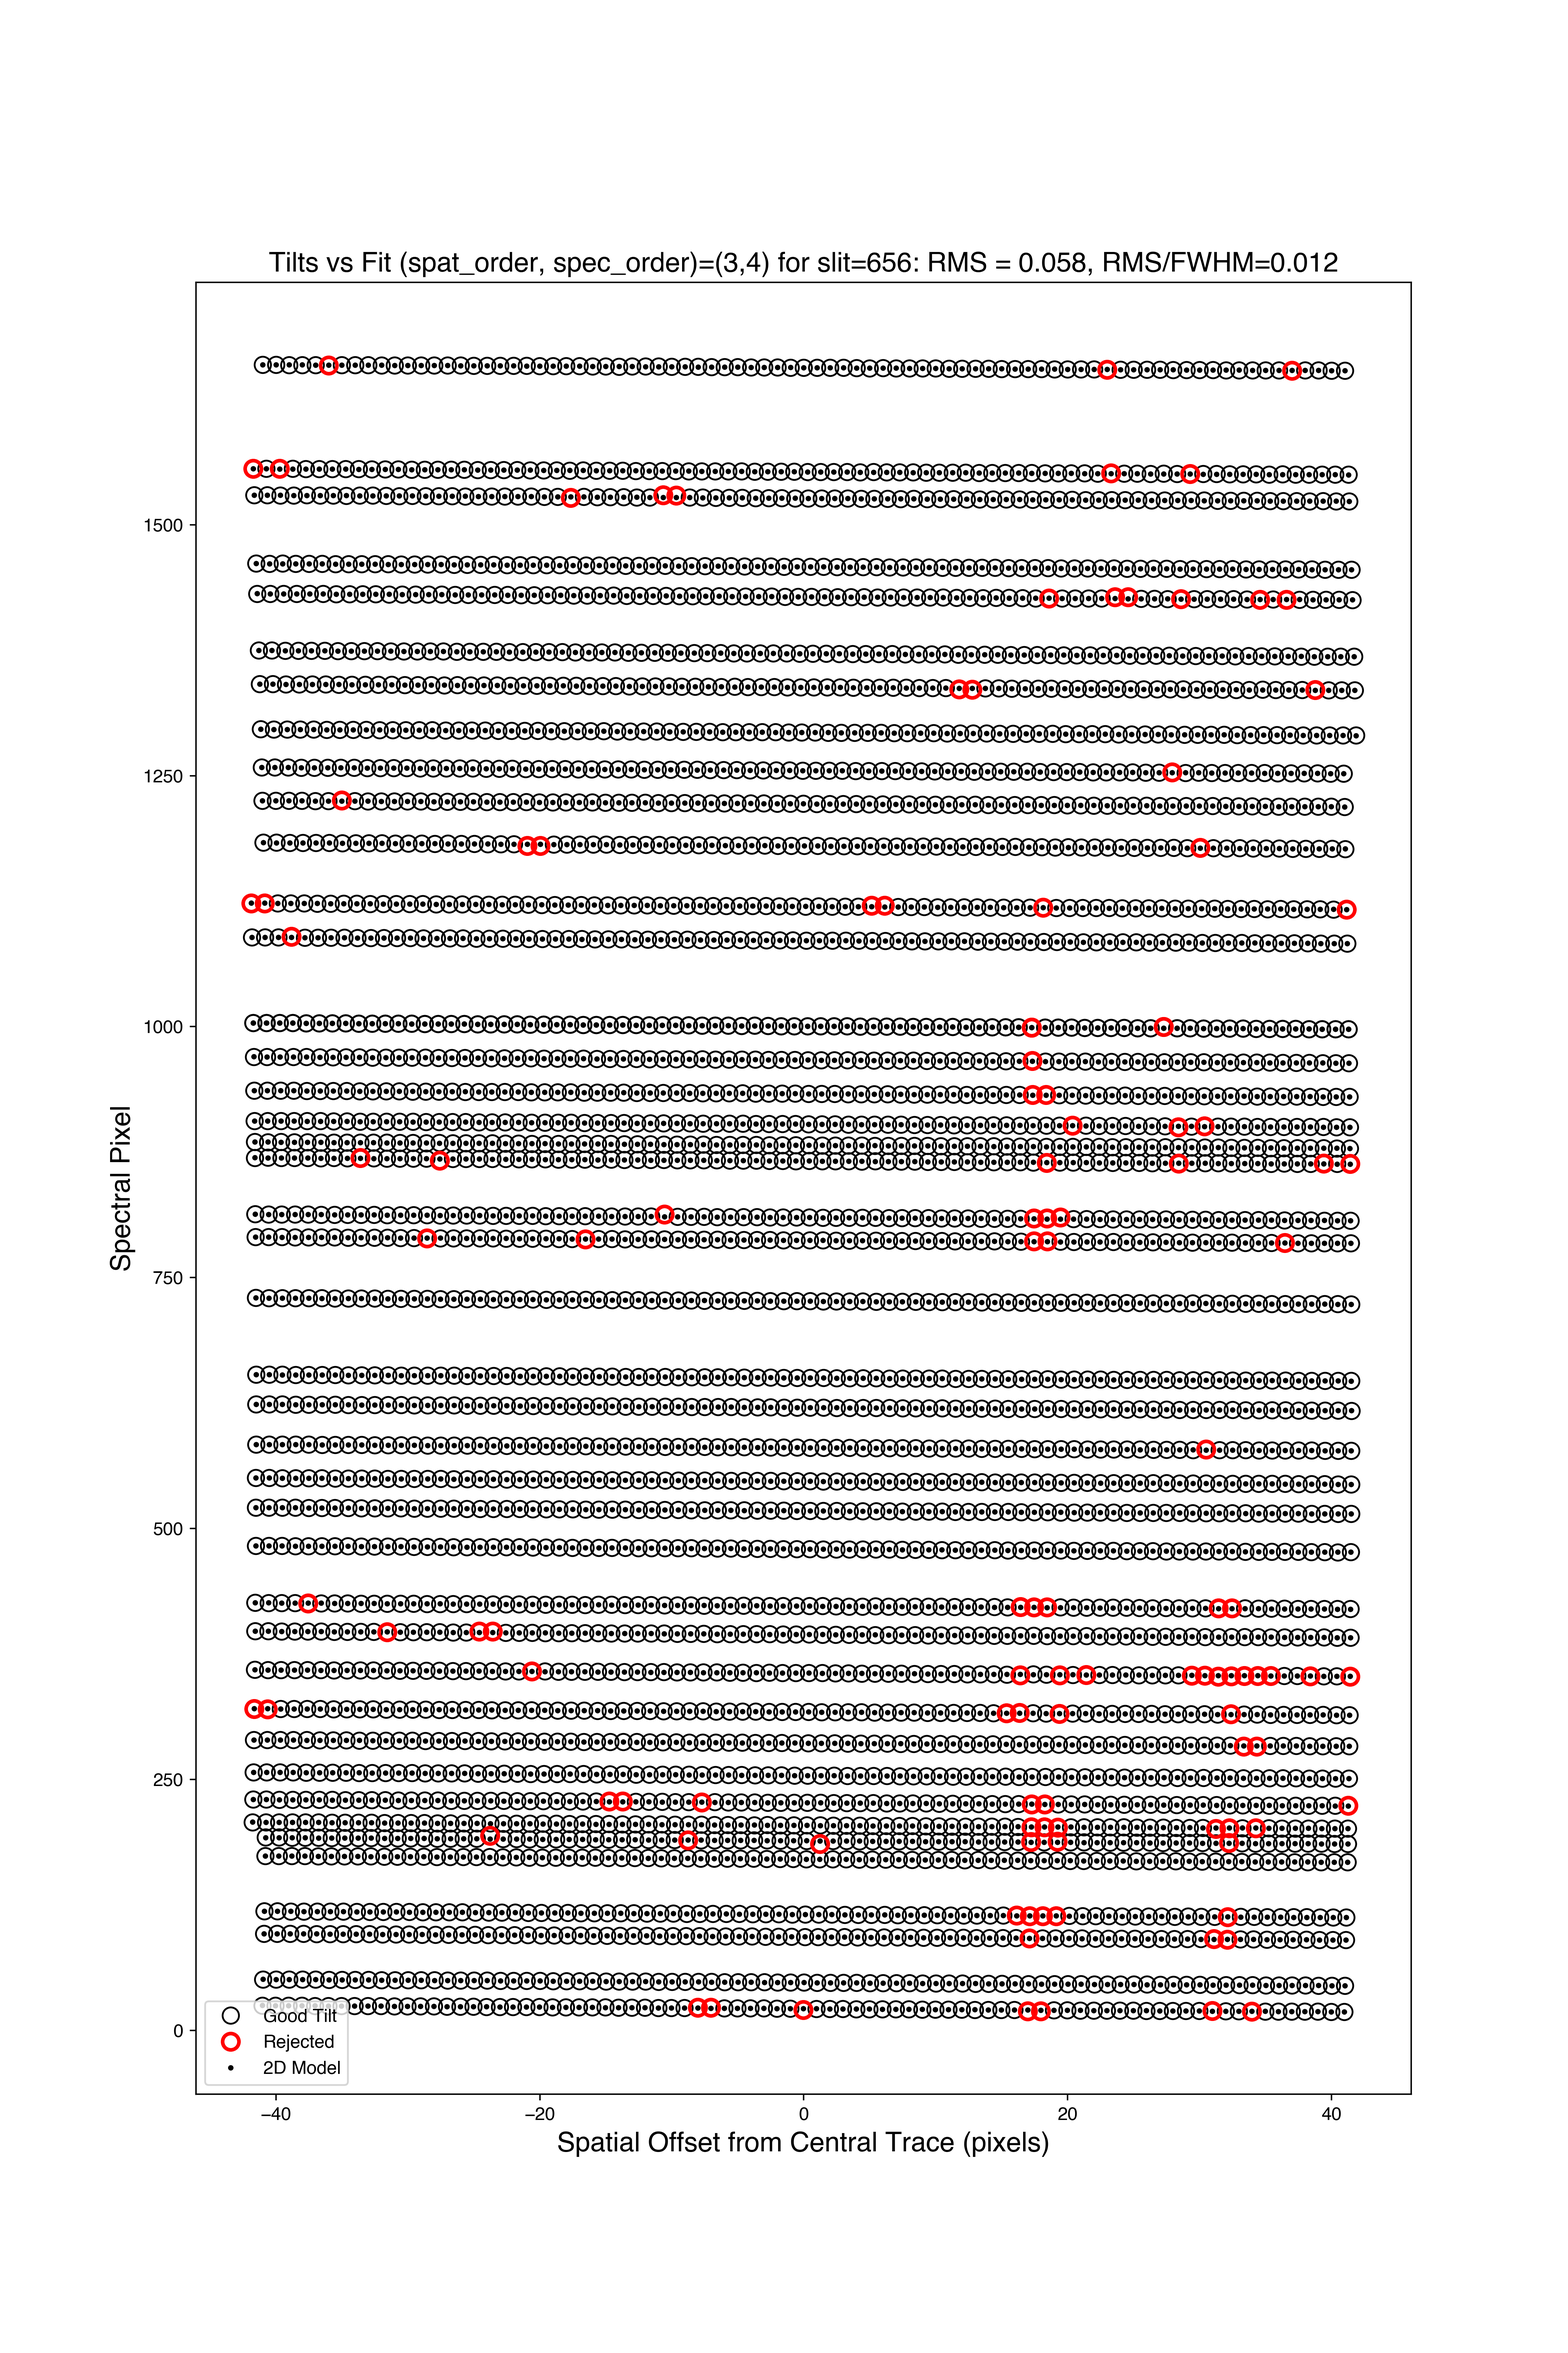
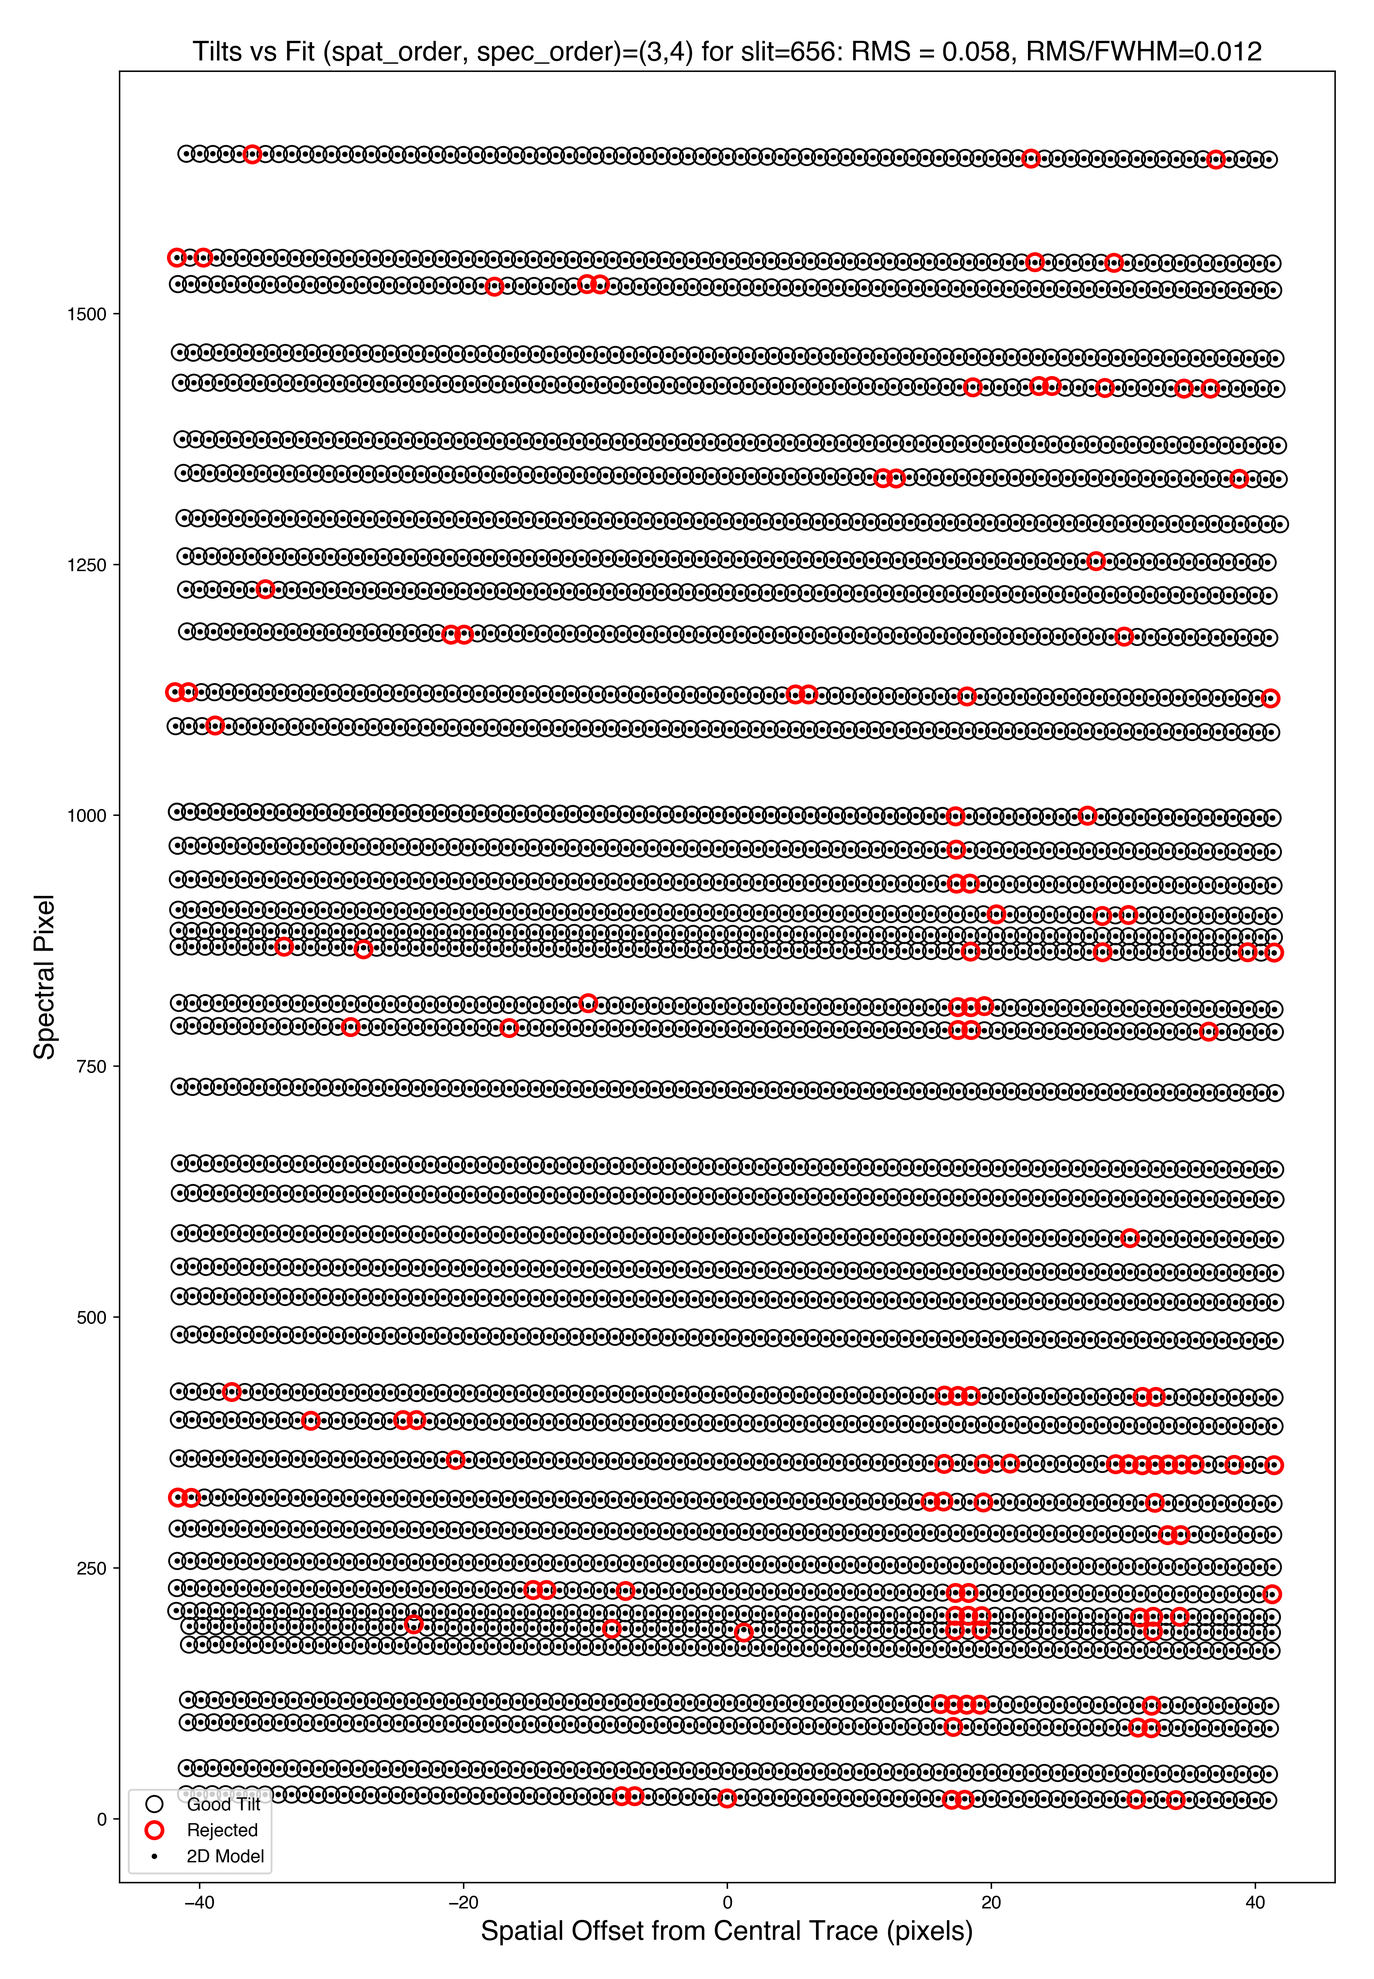
small adjustments

diff --git a/doc/mosfire_howto.rst b/doc/mosfire_howto.rst
@@ -60,7 +60,7 @@ Run ``pypeit_setup``
 The first script to run with PypeIt is :ref:`pypeit_setup`, which examines the raw files
 and generates a sorted list and (when instructed) one :doc:`pypeit_file` per instrument configuration.
 
-See complete instructions are provided in :ref:`setup_doc`.
+See complete instructions provided in :ref:`setup_doc`.
 
 For this example, we move to the folder where we want to perform the reduction and save the
 associated outputs and we run:
@@ -70,7 +70,7 @@ associated outputs and we run:
     cd folder_for_reducing   # this is usually *not* the raw data folder
     pypeit_setup -s keck_mosfire -r /PypeIt-development-suite/RAW_DATA/mask1_K_with_continuum -b
 
-This creates, in a folder called ``setup_files/``, a ``.sorted`` file that shows the raw file organized
+This creates, in a folder called ``setup_files/``, a ``.sorted`` file that shows the raw files organized
 by datasets. We inspect the ``.sorted`` file and identify the dataset that we want to reduced
 (in this case it is indicated with the letter ``A`` ) and re-run ``pypeit_setup`` as:
 
@@ -136,12 +136,13 @@ OH lines in science frames for the wavelength calibration, therefore we do not w
     the ``arc`` and ``tilt`` frame type. In addition, the changes explained in :ref:`mosfire_wavecalib` will have to
     be added to the :ref:`pypeit_file:Parameter Block`.
 
-Other possible edits to the :ref:`pypeit_file:Data Block` are related to the ``calib``, ``comb_id``, and ``bkg_id``
+Other possible edits to the :ref:`pypeit_file:Data Block` are related to the ``comb_id`` and ``bkg_id``
 columns, which instruct PypeIt on the desired frame combination and background subtraction.
-For Keck/MOSFIRE data, PypeIt tries to automatically set the ``calib``, ``comb_id``, ``bkg_id`` using the dither
-information (reported in the ``dithpat``, ``dithpos``, and ``dithoff`` columns) recorded in the header
-of the science frames (see :ref:`mosfire_config_report`); however, the user can edit these columns according to
-the preferred reduction (see :ref:`a-b_differencing` and :ref:`2d_combine` for more info).
+For Keck/MOSFIRE data, PypeIt tries to automatically set the ``comb_id`` and ``bkg_id`` using the dither
+information (reported here in the ``dithpat``, ``dithpos``, and ``dithoff`` columns) recorded in the header
+of the science frames (see :ref:`mosfire_combid_bkgid`); however,
+the user can edit these columns according to the preferred reduction (see :ref:`a-b_differencing` and
+:ref:`2d_combine` for more info).
 
 Finally, in this example, we also edit the :ref:`pypeit_file:Parameter Block` adding the following lines::
 
@@ -212,7 +213,7 @@ Once the ``pypeit_file`` is ready, the main call is simply:
 
 .. code-block:: bash
 
-    run_pypeit ``keck_mosfire_A/keck_mosfire_A.pypeit`` -o
+    run_pypeit keck_mosfire_A/keck_mosfire_A.pypeit -o
 
 The "-o" specifies to over-write any existing science output files.  As there are none, it is superfluous but we
 recommend (almost) always using it.
@@ -260,7 +261,7 @@ from the slitmask design, which within the Pypeit framework are called ``maskdef
 See :doc:`master_edges` for further details.
 
 We can also inspect the ``MasterSlits`` file, which contains the main information on the traced slit edges,
-organized into left-right slit pairs. This is a multi-extension fits file with two
+organized into left-right slit pairs. This is a multi-extension FITS file with two
 `astropy.io.fits.BinTableHDU`_ (for MOSFIRE). The second extension, called ``MASKDEF_DESIGNTAB``, includes
 all the relevant slitmask design information. In this example, ``MASKDEF_DESIGNTAB`` looks like this:
 
@@ -394,7 +395,7 @@ Object finding
 --------------
 
 We can also inspect the :doc:`qa` for the object finding process. Plots saved in *PNG* files with suffix
-*_obj_prof* show the object profile collapse along the spectral direction. Here is an example for
+*"_obj_prof"* show the object profile collapse along the spectral direction. Here is an example for
 an ``A-B`` frame and a ``B-A`` frame:
 
 .. image:: figures/mosfire_objfind_a-b.png
@@ -490,7 +491,7 @@ Spec1D
 ++++++
 
 You can see a summary of all the extracted sources in the ``spec1d*.txt`` files saved
-in the ``Science/`` folder.  Here is the ``spec1d_m121128_0214-ic348_TK_M03A_MOSFIRE_20121128T063110.171.txt``
+in the ``Science/`` folder.  Here is ``spec1d_m121128_0214-ic348_TK_M03A_MOSFIRE_20121128T063110.171.txt``
 generated for this dataset::
 
     | slit |                    name | maskdef_id |  objname |    objra |   objdec | spat_pixpos | spat_fracpos | box_width | opt_fwhm |    s2n | maskdef_extract | wv_rms |
@@ -514,7 +515,7 @@ To inspect the 1D spectrum, we can use the script :ref:`pypeit_show_1dspec`, wit
 
     pypeit_show_1dspec Science/spec1d_m121128_0214-ic348_TK_M03A_MOSFIRE_20121128T063110.171.fits --exten 3
 
-Since ``spec1d*.fits`` is a multi-extension fits file that contains all the 1D extracted spectra
+Since ``spec1d*.fits`` is a multi-extension FITS file that contains all the 1D extracted spectra
 (one per each extension), we need to specify which 1D spectrum (i.e., extension) we want to inspect
 by passing ``--exten 3`` to the call. To help decide which 1D spectrum to visualize,
 we can run beforehand the following:

diff --git a/doc/pypeit_par.rst b/doc/pypeit_par.rst
@@ -1770,7 +1770,7 @@ Alterations to the default parameters are::
               mask_cr = True
               noise_floor = 0.01
       [[standardframe]]
-          exprng = None, 120
+          exprng = None, 180
           [[[process]]]
               mask_cr = True
               noise_floor = 0.01
@@ -1785,6 +1785,9 @@ Alterations to the default parameters are::
       [[process]]
           mask_cr = True
           noise_floor = 0.01
+  [reduce]
+      [[findobj]]
+          maxnumber_std = 1
 
 KECK DEIMOS (``keck_deimos``)
 -----------------------------

diff --git a/doc/dev/mosfireconfig.rst b/doc/dev/mosfireconfig.rst
@@ -93,6 +93,8 @@ No automated procedure exists to do anything except this. However, the user can 
 within a given configuration, assign specific calibration frames to specific science frames using the data in
 the ``calib`` column of the :ref:`pypeit_file:Data Block`.
 
+.. _mosfire_combid_bkgid:
+
 MOSFIRE combination and background groups
 -----------------------------------------
 
